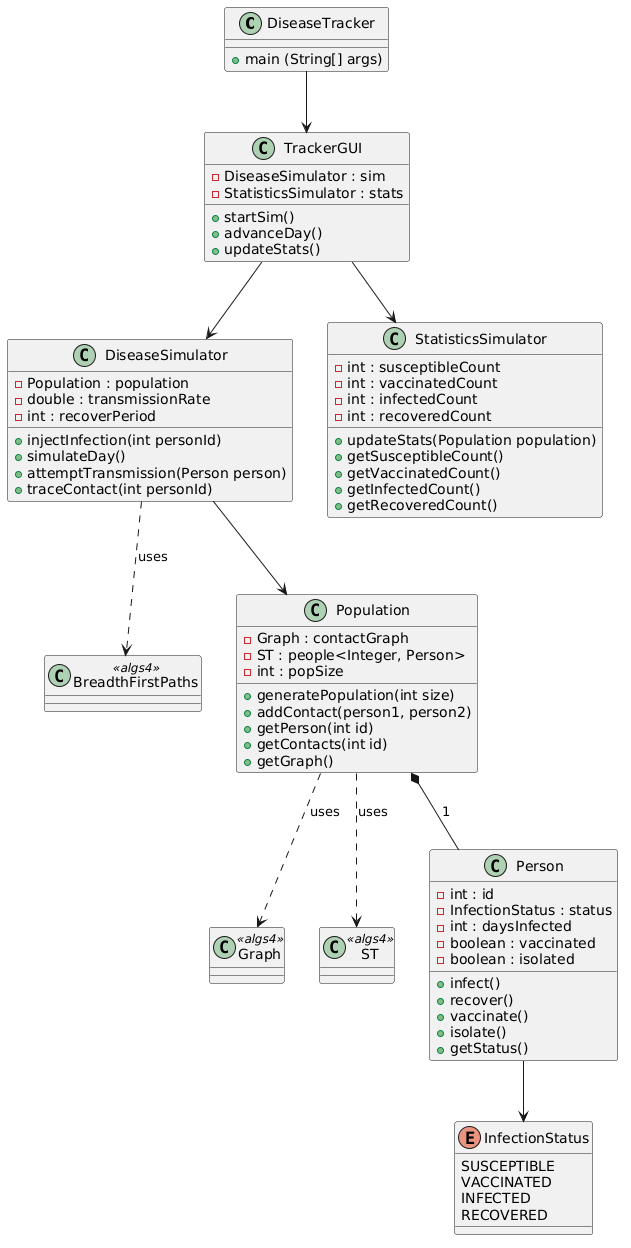
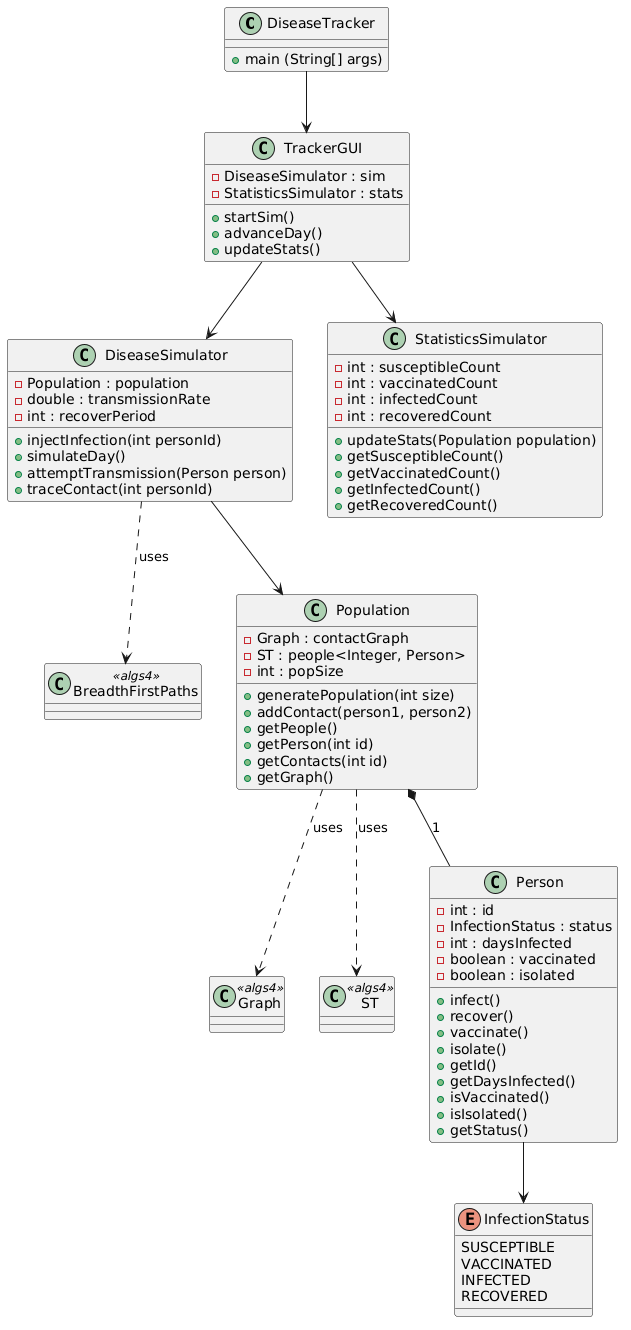
Updated UML and Implemented StatsSim class

diff --git a/src/diseaseTracker/StatisticsSimulator.java b/src/diseaseTracker/StatisticsSimulator.java
@@ -1,5 +1,74 @@
 package diseaseTracker;
 
+/**
+ * Handles status counts for each Infection Status within a Population.
+ *
+ * @author Keanu Cruz + Caliana Caldwell
+ *
+ */
 public class StatisticsSimulator {
+	private int susceptibleCount;
+	private int infectedCount;
+	private int vaccinatedCount;
+	private int recoveredCount;
+	
+	/**
+	 * Resets all current InfectionStatus counts then rebuilds the count for inputted population.
+	 * @param population
+	 */
+	public void updateStats(Population population) {
+		susceptibleCount = 0;
+		infectedCount = 0;
+		vaccinatedCount = 0;
+		recoveredCount = 0;
+		
+		for (Person p : population.getPeople()) {
+			if (p.getStatus() == InfectionStatus.INFECTED) {
+				infectedCount++;
+			}
+			else if (p.getStatus() == InfectionStatus.VACCINATED) {
+				vaccinatedCount++;
+			}
+			else if (p.getStatus() == InfectionStatus.RECOVERED) {
+				recoveredCount++;
+			}
+			else if (p.getStatus() == InfectionStatus.SUSCEPTIBLE){
+				susceptibleCount++;
+			}
+		}
+	}
 
+	/**
+	 * Returns how many people are susceptible to infection in a population.
+	 * @return number of susceptible people in a population.
+	 */
+	public int getSusceptibleCount() {
+		return susceptibleCount;
+	}
+
+	/**
+	 * Returns how many people are infected in a population.
+	 * @return number of infected individuals.
+	 */
+	public int getInfectedCount() {
+		return infectedCount;
+	}
+
+	/**
+	 * Returns how many people are vaccinated in a population.
+	 * @return number of vaccinated individuals.
+	 */
+	public int getVaccinatedCount() {
+		return vaccinatedCount;
+	}
+
+	/**
+	 * Returns how many people have recovered from infection in a population.
+	 * @return number of recovered individuals.
+	 */
+	public int getRecoveredCount() {
+		return recoveredCount;
+	}
+	
+	
 }

diff --git a/src/diseaseTracker/Person.java b/src/diseaseTracker/Person.java
@@ -36,6 +36,7 @@ public class Person {
 	public void infect() {
 		if (!vaccinated) {
 			status = InfectionStatus.INFECTED;
+			daysInfected = 0;
 		}
 	}
 
